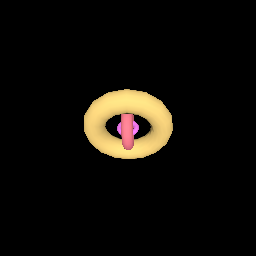
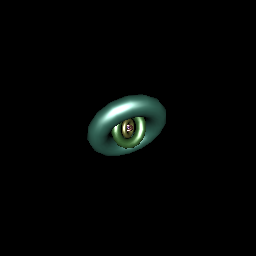
Add Blinn-Phong shader and use it in donuts, colors example

Changed region(s): [[0.3125, 0.3438, 0.6875, 0.625]]

diff --git a/doc/shaders.md b/doc/shaders.md
@@ -19,3 +19,10 @@ translate
 Translate texture by specifiying `x` and `y` in texture coordinates.
 
 [![translate](shaders/translate.png)](../shaders/translate.scm)&nbsp;
+
+blinn
+-----
+
+Blinn-Phong shader
+
+[![blinn](shaders/blinn.png)](../shaders/blinn.scm)&nbsp;
